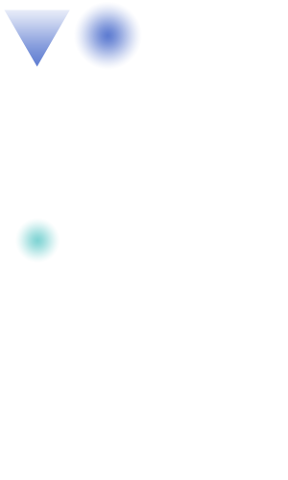
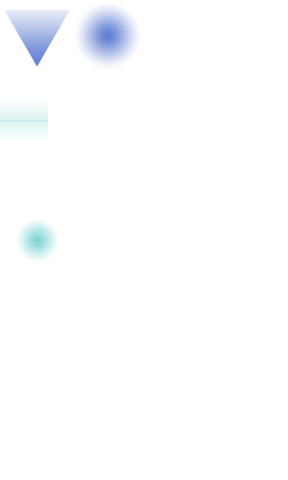
Added Vertical Neon PostFX. Closes #370

Changed region(s): [[0.0, 0.2188, 0.1875, 0.2812]]

diff --git a/src/ZeroFootprintSociety/Content/Maps/PostFX.tsx b/src/ZeroFootprintSociety/Content/Maps/PostFX.tsx
@@ -105,7 +105,8 @@
  </tile>
  <tile id="19">
   <properties>
-   <property name="Hide" type="bool" value="true"/>
+   <property name="FX" value="largeneongradient-turqoise"/>
+   <property name="Hide" type="bool" value="false"/>
   </properties>
  </tile>
  <tile id="20">
@@ -253,6 +254,7 @@
  </tile>
  <tile id="48">
   <properties>
+   <property name="FX" value="vertneongradient-turqoise"/>
    <property name="Hide" type="bool" value="true"/>
   </properties>
  </tile>
@@ -558,7 +560,7 @@
  </tile>
  <tile id="109">
   <properties>
-   <property name="FX" value="smallcirclegradient-neon"/>
+   <property name="FX" value="smallcirclegradient-turqoise"/>
    <property name="Hide" type="bool" value="false"/>
   </properties>
  </tile>

diff --git a/src/ZeroFootprintSociety/UIEffects/TileFXCollection.cs b/src/ZeroFootprintSociety/UIEffects/TileFXCollection.cs
@@ -12,7 +12,7 @@ namespace ZeroFootPrintSociety.UIEffects
         private static readonly DictionaryWithDefault<string, Color> _colors = new DictionaryWithDefault<string, Color>(Color.FromNonPremultiplied(255, 255, 0, 120))
         {
             { "blue", Color.FromNonPremultiplied(30, 90, 230, 60) },
-            { "neon", Color.FromNonPremultiplied(60, 200, 255, 80) },
+            { "turqoise", Color.FromNonPremultiplied(60, 200, 255, 80) },
             { "red", Color.FromNonPremultiplied(255, 0, 0, 60) },
         };
         
@@ -27,6 +27,8 @@ namespace ZeroFootPrintSociety.UIEffects
                     DrawCircleGradient(parentTransform, tile, _colors[fx.Color]);
                 else if (fx.Name.Equals("smallcirclegradient", StringComparison.InvariantCultureIgnoreCase))
                     DrawSmallCircleGradient(parentTransform, tile, _colors[fx.Color]);
+                else if (fx.Name.Equals("vertneongradient", StringComparison.InvariantCultureIgnoreCase))
+                    DrawVertNeonGradient(parentTransform, tile, _colors[fx.Color]);
                 else
                     Logger.WriteLine($"Unknown FX '{x}'");
             });
@@ -54,6 +56,14 @@ namespace ZeroFootPrintSociety.UIEffects
             var loc = (TileData.RenderSize.ToPoint() * tile.Position).ToVector2();
             var t = new Transform2(loc + gradientOffset, new Size2(140, 140));
             UI.Draw("Effects/CircleGradient", parentTransform + t, color);
+        }
+
+        private void DrawVertNeonGradient(Transform2 parentTransform, GameTile tile, Color color)
+        {
+            var gradientOffset = new Vector2(0, -48);
+            var loc = (TileData.RenderSize.ToPoint() * tile.Position).ToVector2();
+            var t = new Transform2(loc + gradientOffset, new Size2(96, 192));
+            UI.Draw("Effects/VertNeonGradient", parentTransform + t, color);
         }
     }
 }
